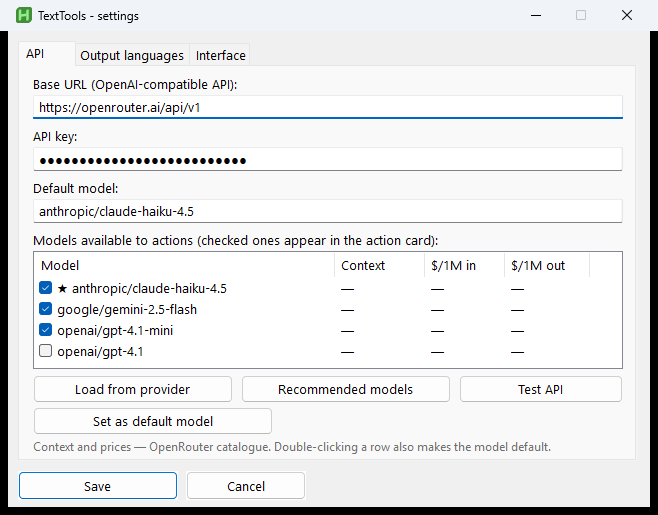
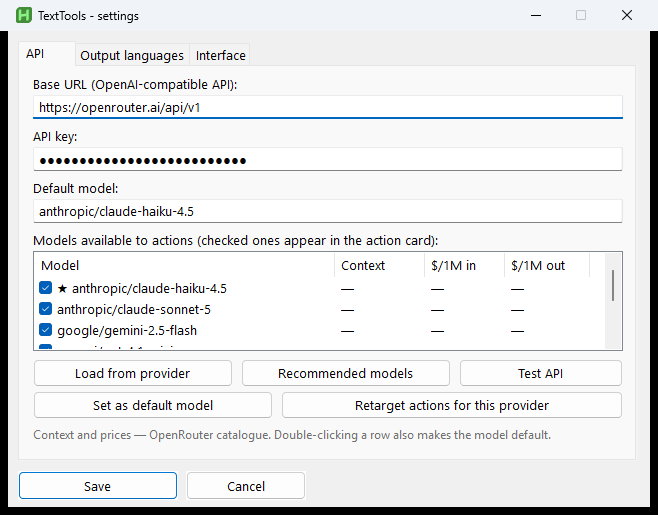
Publish v0.2.0 site: screenshots, CSP, lighter og-card.

Changed region(s): [[0.0304, 0.5903, 0.9422, 0.901]]

diff --git a/index.html b/index.html
@@ -2,6 +2,7 @@
 <html lang="ru">
   <head>
     <meta charset="utf-8">
+    <meta http-equiv="Content-Security-Policy" content="default-src 'self'; script-src 'self' 'unsafe-inline' https://buttons.github.io; style-src 'self' 'unsafe-inline' https://fonts.googleapis.com; font-src https://fonts.gstatic.com; img-src 'self' data:; frame-src https://ghbtns.com https://buttons.github.io; connect-src 'self' https://api.github.com">
     <meta name="viewport" content="width=device-width, initial-scale=1">
     <title>TextTools — LLM для выделенного текста на Windows</title>
     <meta name="description" content="Выдели текст в любом окне Windows, нажми хоткей и отдай его модели: вычитка, переписывание, краткое изложение, таблица, разбор кода. AutoHotkey v2, OpenAI-совместимый API, MIT.">
@@ -44,9 +45,9 @@
             "name": "TextTools",
             "applicationCategory": "UtilitiesApplication",
             "operatingSystem": "Windows 10, Windows 11",
-            "softwareVersion": "0.1.0",
+            "softwareVersion": "0.2.0",
             "url": "https://belyaevad.github.io/TextTools/",
-            "downloadUrl": "https://github.com/BelyaevAD/TextTools/releases/tag/v0.1.0",
+            "downloadUrl": "https://github.com/BelyaevAD/TextTools/releases/tag/v0.2.0",
             "installUrl": "https://github.com/BelyaevAD/TextTools",
             "description": "Скрипт AutoHotkey v2: выделение текста в любом окне Windows, хоткей и действия через OpenAI-совместимый API.",
             "license": "https://github.com/BelyaevAD/TextTools/blob/main/LICENSE",
@@ -103,11 +104,11 @@
         </a>
         <div class="nav-right">
           <div class="nav-links">
-            <a href="https://github.com/BelyaevAD/TextTools/blob/main/docs/USER_GUIDE.md">Документация</a>
-            <a href="https://github.com/BelyaevAD/TextTools/releases">Релизы</a>
+            <a href="https://github.com/BelyaevAD/TextTools/blob/main/docs/USER_GUIDE.md" target="_blank" rel="noopener noreferrer">Документация</a>
+            <a href="https://github.com/BelyaevAD/TextTools/releases" target="_blank" rel="noopener noreferrer">Релизы</a>
           </div>
           <span class="nav-star">
-            <a class="github-button" href="https://github.com/BelyaevAD/TextTools" data-color-scheme="no-preference: dark; light: dark; dark: dark;" data-icon="octicon-star" data-size="large" data-show-count="true" aria-label="Star BelyaevAD/TextTools on GitHub">Star</a>
+            <a class="github-button" href="https://github.com/BelyaevAD/TextTools" rel="noopener" data-color-scheme="no-preference: dark; light: dark; dark: dark;" data-icon="octicon-star" data-size="large" data-show-count="true" aria-label="Star BelyaevAD/TextTools on GitHub">Star</a>
           </span>
           <div class="language-switch" aria-label="Выбор языка">
             <a href="./" lang="ru" aria-current="page">RU</a>
@@ -125,8 +126,8 @@
             <h1>TextTools</h1>
             <p class="hero-lead">Выдели текст в любом приложении, нажми хоткей — появится сетка действий. Вычитка, переписывание, краткое изложение, таблица, разбор кода и остальное. Результат либо встанет вместо выделения, либо откроется в отдельном окне.</p>
             <div class="hero-actions">
-              <a class="button" href="https://github.com/BelyaevAD/TextTools/releases/tag/v0.1.0">Скачать v0.1.0</a>
-              <a class="button secondary" href="https://github.com/BelyaevAD/TextTools/blob/main/docs/USER_GUIDE.md">Документация</a>
+              <a class="button" href="https://github.com/BelyaevAD/TextTools/releases/tag/v0.2.0" target="_blank" rel="noopener noreferrer">Скачать v0.2.0</a>
+              <a class="button secondary" href="https://github.com/BelyaevAD/TextTools/blob/main/docs/USER_GUIDE.md" target="_blank" rel="noopener noreferrer">Документация</a>
             </div>
             <div class="hero-meta" aria-label="Кратко">
               <span>Windows 10/11</span>
@@ -244,7 +245,7 @@
             <p class="eyebrow">Установка</p>
             <h2>Пара минут</h2>
             <p>Нужны AutoHotkey v2 и системный <code>curl.exe</code>. <code>install.ps1</code> кладёт файлы в <code>%LOCALAPPDATA%</code> и вешает автозапуск.</p>
-            <a class="button secondary" href="https://github.com/BelyaevAD/TextTools#установка">Полная инструкция</a>
+            <a class="button secondary" href="https://github.com/BelyaevAD/TextTools#установка" target="_blank" rel="noopener noreferrer">Полная инструкция</a>
           </div>
           <div class="code-window" aria-label="Команды установки">
             <div class="code-toolbar">
@@ -267,7 +268,7 @@ powershell -ExecutionPolicy Bypass -File .\install.ps1
         <div class="shell">
           <div class="section-heading">
             <h2>Про ключ и стабильность</h2>
-            <p>Ключ живёт только в локальном <code>TextTools.ini</code>. История на диске хранит тексты — в git её лучше не класть.</p>
+            <p>Ключ живёт только в локальном <code>TextTools.ini</code>. Профилирование приложений выключено по умолчанию. История на диске хранит тексты — в git её лучше не класть.</p>
           </div>
           <ul class="safety-list">
             <li>Запросы к модели идут через отдельный процесс <code>curl.exe</code>, не через WinHTTP внутри AHK.</li>
@@ -283,10 +284,10 @@ powershell -ExecutionPolicy Bypass -File .\install.ps1
       <div class="footer-inner shell">
         <p>TextTools · MIT · идея навеяна Writing Tools, код и промпты свои</p>
         <div class="footer-links">
-          <a href="https://github.com/BelyaevAD/TextTools">GitHub</a>
-          <a href="https://github.com/BelyaevAD/TextTools/blob/main/LICENSE">Лицензия</a>
+          <a href="https://github.com/BelyaevAD/TextTools" target="_blank" rel="noopener noreferrer">GitHub</a>
+          <a href="https://github.com/BelyaevAD/TextTools/blob/main/LICENSE" target="_blank" rel="noopener noreferrer">Лицензия</a>
           <a href="en/" lang="en">English</a>
-          <a href="https://belyaevad.github.io/">belyaevad.github.io</a>
+          <a href="https://belyaevad.github.io/" target="_blank" rel="noopener noreferrer">belyaevad.github.io</a>
         </div>
       </div>
     </footer>

diff --git a/en/index.html b/en/index.html
@@ -2,6 +2,7 @@
 <html lang="en">
   <head>
     <meta charset="utf-8">
+    <meta http-equiv="Content-Security-Policy" content="default-src 'self'; script-src 'self' 'unsafe-inline' https://buttons.github.io; style-src 'self' 'unsafe-inline' https://fonts.googleapis.com; font-src https://fonts.gstatic.com; img-src 'self' data:; frame-src https://ghbtns.com https://buttons.github.io; connect-src 'self' https://api.github.com">
     <meta name="viewport" content="width=device-width, initial-scale=1">
     <title>TextTools — LLM for selected text on Windows</title>
     <meta name="description" content="Select text in any Windows window, hit a hotkey, and send it to a model: proofread, rewrite, summarize, table, explain code. AutoHotkey v2, OpenAI-compatible API, MIT.">
@@ -44,9 +45,9 @@
             "name": "TextTools",
             "applicationCategory": "UtilitiesApplication",
             "operatingSystem": "Windows 10, Windows 11",
-            "softwareVersion": "0.1.0",
+            "softwareVersion": "0.2.0",
             "url": "https://belyaevad.github.io/TextTools/en/",
-            "downloadUrl": "https://github.com/BelyaevAD/TextTools/releases/tag/v0.1.0",
+            "downloadUrl": "https://github.com/BelyaevAD/TextTools/releases/tag/v0.2.0",
             "description": "AutoHotkey v2 script: select text in any Windows window, hotkey, OpenAI-compatible API actions.",
             "license": "https://github.com/BelyaevAD/TextTools/blob/main/LICENSE",
             "isAccessibleForFree": true,
@@ -91,11 +92,11 @@
         </a>
         <div class="nav-right">
           <div class="nav-links">
-            <a href="https://github.com/BelyaevAD/TextTools/blob/main/docs/USER_GUIDE.md">Docs</a>
-            <a href="https://github.com/BelyaevAD/TextTools/releases">Releases</a>
+            <a href="https://github.com/BelyaevAD/TextTools/blob/main/docs/USER_GUIDE.md" target="_blank" rel="noopener noreferrer">Docs</a>
+            <a href="https://github.com/BelyaevAD/TextTools/releases" target="_blank" rel="noopener noreferrer">Releases</a>
           </div>
           <span class="nav-star">
-            <a class="github-button" href="https://github.com/BelyaevAD/TextTools" data-color-scheme="no-preference: dark; light: dark; dark: dark;" data-icon="octicon-star" data-size="large" data-show-count="true" aria-label="Star BelyaevAD/TextTools on GitHub">Star</a>
+            <a class="github-button" href="https://github.com/BelyaevAD/TextTools" rel="noopener" data-color-scheme="no-preference: dark; light: dark; dark: dark;" data-icon="octicon-star" data-size="large" data-show-count="true" aria-label="Star BelyaevAD/TextTools on GitHub">Star</a>
           </span>
           <div class="language-switch" aria-label="Language">
             <a href="../" lang="ru">RU</a>
@@ -113,8 +114,8 @@
             <h1>TextTools</h1>
             <p class="hero-lead">Select text in any app, hit the hotkey, pick what you want done. Proofreading, rewriting, summaries, tables, explaining code — that sort of thing. The result replaces the selection, or opens in its own window.</p>
             <div class="hero-actions">
-              <a class="button" href="https://github.com/BelyaevAD/TextTools/releases/tag/v0.1.0">Download v0.1.0</a>
-              <a class="button secondary" href="https://github.com/BelyaevAD/TextTools/blob/main/docs/USER_GUIDE.md">Docs</a>
+              <a class="button" href="https://github.com/BelyaevAD/TextTools/releases/tag/v0.2.0" target="_blank" rel="noopener noreferrer">Download v0.2.0</a>
+              <a class="button secondary" href="https://github.com/BelyaevAD/TextTools/blob/main/docs/USER_GUIDE.md" target="_blank" rel="noopener noreferrer">Docs</a>
             </div>
             <div class="hero-meta" aria-label="Basics">
               <span>Windows 10/11</span>
@@ -232,7 +233,7 @@
             <p class="eyebrow">Install</p>
             <h2>A couple of minutes</h2>
             <p>You need AutoHotkey v2 and system <code>curl.exe</code>. <code>install.ps1</code> copies into <code>%LOCALAPPDATA%</code> and registers autostart.</p>
-            <a class="button secondary" href="https://github.com/BelyaevAD/TextTools/blob/main/README.en.md#install">Full install notes</a>
+            <a class="button secondary" href="https://github.com/BelyaevAD/TextTools/blob/main/README.en.md#install" target="_blank" rel="noopener noreferrer">Full install notes</a>
           </div>
           <div class="code-window" aria-label="Install commands">
             <div class="code-toolbar">
@@ -255,7 +256,7 @@ powershell -ExecutionPolicy Bypass -File .\install.ps1
         <div class="shell">
           <div class="section-heading">
             <h2>Key and stability</h2>
-            <p>The API key lives only in local <code>TextTools.ini</code>. On-disk history holds your texts — don’t commit it.</p>
+            <p>The API key lives only in local <code>TextTools.ini</code>. App profiling is off by default. On-disk history holds your texts — don’t commit it.</p>
           </div>
           <ul class="safety-list">
             <li>Calls go through a separate <code>curl.exe</code> process, not WinHTTP inside AHK.</li>
@@ -271,10 +272,10 @@ powershell -ExecutionPolicy Bypass -File .\install.ps1
       <div class="footer-inner shell">
         <p>TextTools · MIT · idea inspired by Writing Tools; code and prompts are original</p>
         <div class="footer-links">
-          <a href="https://github.com/BelyaevAD/TextTools">GitHub</a>
-          <a href="https://github.com/BelyaevAD/TextTools/blob/main/LICENSE">License</a>
+          <a href="https://github.com/BelyaevAD/TextTools" target="_blank" rel="noopener noreferrer">GitHub</a>
+          <a href="https://github.com/BelyaevAD/TextTools/blob/main/LICENSE" target="_blank" rel="noopener noreferrer">License</a>
           <a href="../" lang="ru">Русский</a>
-          <a href="https://belyaevad.github.io/">belyaevad.github.io</a>
+          <a href="https://belyaevad.github.io/" target="_blank" rel="noopener noreferrer">belyaevad.github.io</a>
         </div>
       </div>
     </footer>

diff --git a/USER_GUIDE.md b/USER_GUIDE.md
@@ -7,6 +7,7 @@
 | `TextTools.ahk` | Entry point |
 | `Lib/*.ahk` | Logic (AHK v2 includes are textual paste) |
 | `lang/*.ini` | Shipped UI language packs |
+| `lang/user/*.ini` | Your extra packs (installer does not recreate this folder) |
 | `TextTools.ini` | Local settings including API key (**not in git**) |
 | `actions.ini` / `apps.ini` / `langs.ini` | Your edits (**not in git**); factory sets live in `Lib/` |
 | `TextTools_history.txt` | Recent results with source text (**sensitive**, gitignored) |
@@ -20,6 +21,12 @@ Install target: `%LOCALAPPDATA%\Scripts\TextTools\` via `install.ps1`.
 3. Tray → **Settings** → API: Base URL, key, default model
 4. Optional: **Load from provider** / **Recommended models**
 5. Select text anywhere → default hotkey `Ctrl+Alt+Space`
+
+Optional: Settings → Interface → **Profile new apps** (off by default). When on, a new unknown window can send its exe name and title to the provider after a Yes/No prompt.
+
+Clipboard wait is also on that tab. Tray → **Clear history…** / **Clear log…** empties the on-disk files.
+
+To retarget factory action models after changing provider: Settings → API → **Retarget actions for this provider**.
 
 ## Actions
 
@@ -49,9 +56,13 @@ Factory defaults in code: OpenRouter base URL, `anthropic/claude-haiku-4.5`, UI 
 ## Development
 
 ```powershell
+powershell -ExecutionPolicy Bypass -File .\run-tests.ps1          # logic gate
+powershell -ExecutionPolicy Bypass -File .\run-tests.ps1 -Gui     # + editor/settings windows
+```
+
+`tests-logic.ahk` is the CI gate (no GUI). `tests-editor-open.ahk` and `tests-usage-and-source.ahk` stay local. Do not redirect AHK stdout/stderr.
+
+```powershell
 # syntax check (pulls in all Lib files)
 & "$env:LOCALAPPDATA\Programs\AutoHotkey\v2\AutoHotkey64.exe" /ErrorStdOut /validate .\TextTools.ahk
-
-# regression suite (most checks need no API key)
-& "$env:LOCALAPPDATA\Programs\AutoHotkey\v2\AutoHotkey64.exe" .\tests-usage-and-source.ahk
 ```
